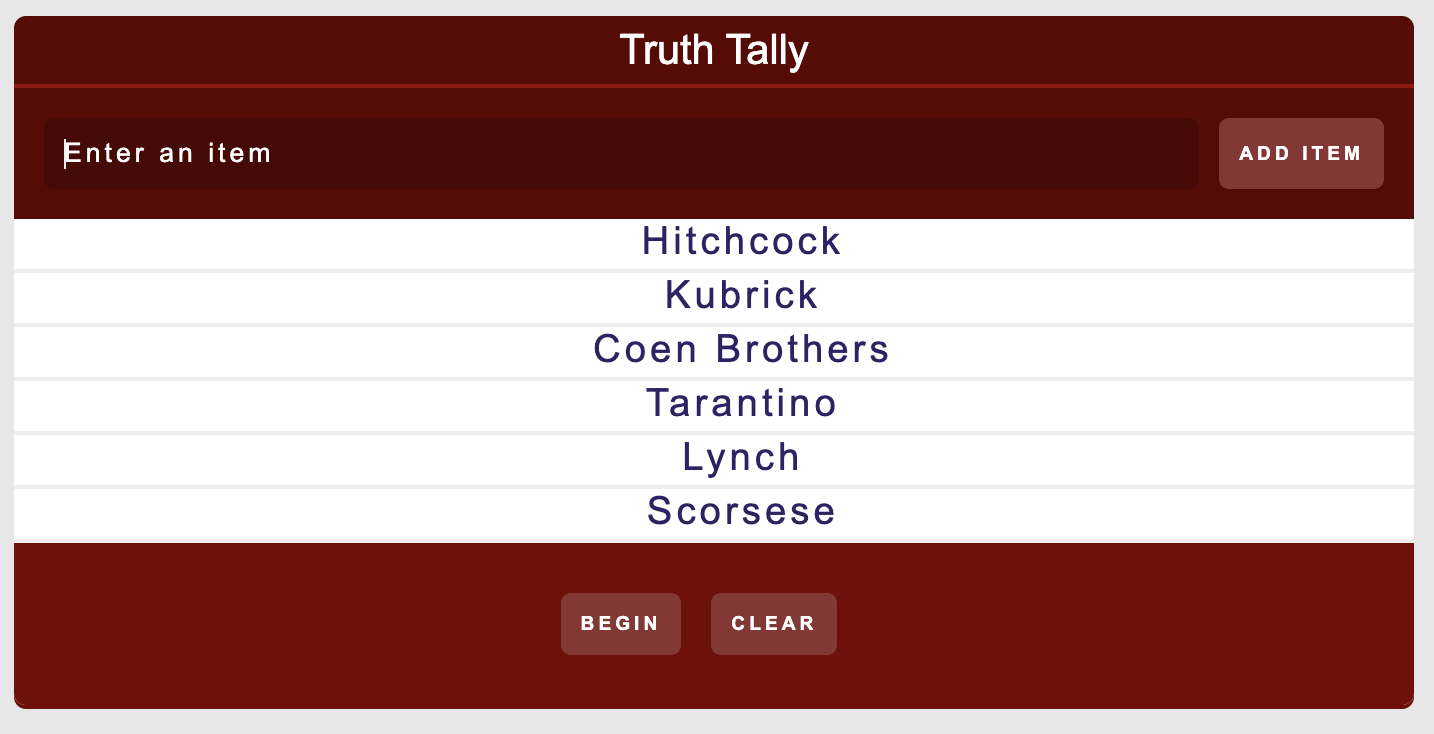
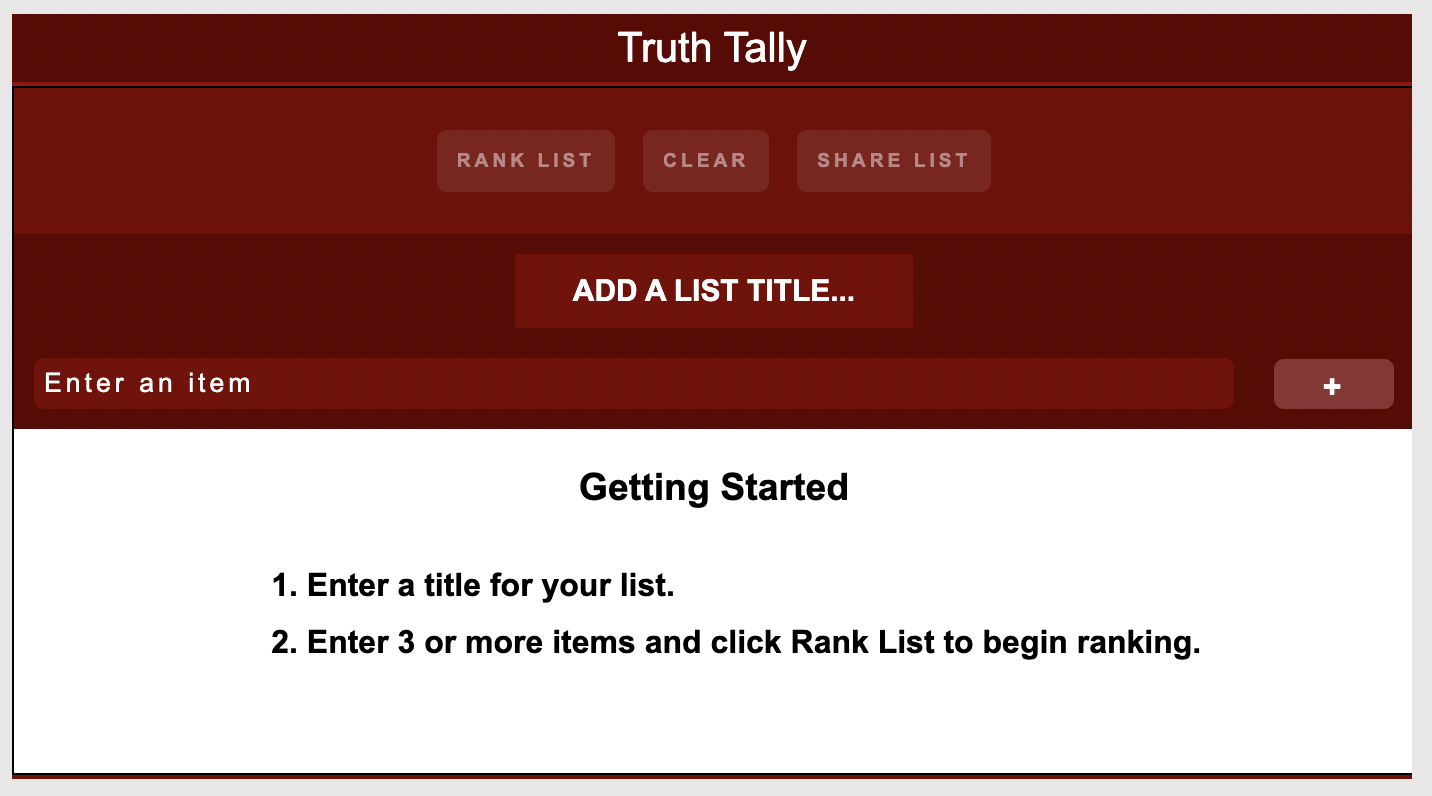
Update Readme to reflect most recent changes

diff --git a/README.md b/README.md
@@ -1,40 +1,103 @@
 # Truth Tally
 
+### Link to web app: [https://truthtallyranker.com](https://truthtallyranker.com)
 
-Link to web app: [https://truthtally.danielr.io/](https://truthtally.danielr.io/)
+<br />
+<br />
+
+---
 
 ## Description
 
-This React based app will allow you to create a list, and sort based on your choice from randomized unique pairings.
+This Next.js, React, and Node.js based app will allow you to create a list, and sort based on your choice from randomized unique pairings.
+
+<br />
 
 ## Usage
 
-1. Enter a list of items to compare (i.e., Beatles, Led Zeppelin, Pink Floyd, Black Sabbath)
-2. Click/tap on Begin
-3. Select a favored item from one of the pairs of items displayed.
+1. Enter a list of items to rank (i.e., Beatles, Led Zeppelin, Pink Floyd, Black Sabbath)
+2. Click/tap on Rank List
+3. During each round, click/tap on the favored item from between the two items
 4. Results are then displayed.
 
-`- The Begin button only appears once there are 3 items in the list`
+<br />
 
-`- Each selection increases the score of the selected item`
+- `The Rank List button only appears once there are 3 items in the list`
 
-`- Rate Again will clear scores and begin the ratng process again`
+- `Each selection increases the score of the selected item`
 
-`- Start Over will clear the list, requiring entering items again`
+- `Rank Again will clear scores and begin the ratng process again`
 
+<br />
+
+## List Sharing
+
+You can share your ranked and unranked lists. Sharing a list will save your list to the database, and the list will be stored on Truth Tally's server.
+
+When sharing, you have the option to enter:
+
+- `Name: Enter your name or a nickname to display as the person who created or ranked the list when sharing unranked or ranked lists with others.`
+
+- `Tags: Add up to 6 tags, using single words without spaces and up to 20 characters each, to improve searchability and aid others in discovering your list.`
+
+- `Unlisted: Your list won't appear on the public shared lists page*, but can still be shared with others using a unique link.`
+
+\*Feature currently in development
+
+<br />
+
+---
 
 ## Screenshots
 
+<div style="text-align: center;">
+
 ![Screenshot](./screenshots/screenshot01.png)
+New List
+
+<br />
 
 ![Screenshot](./screenshots/screenshot02.png)
+Enter a title and items to rank
+
+<br />
 
 ![Screenshot](./screenshots/screenshot03.png)
+Share List modal
 
-### `Development`
+<br />
+
+![Screenshot](./screenshots/screenshot04.png)
+Ranking items
+
+<br />
+
+![Screenshot](./screenshots/screenshot05.png)
+Ranked list
+
+<br />
+
+</div>
+
+---
+
+<br />
+
+## `Development`
 
 To develop further on this app, you will want to fork the repo, then clone your fork into your local git repository.
 
-In terminal, CD into your cloned repo and enter `npm install`, then run the app by entering `npm start`
+1. In terminal, CD into your cloned forked repo and enter `npm install`
+2. This app uses a MongoDB Atlas database. You can sign up for a free MongoDB Atlas account, and follow the getting started tutorial [here](https://www.mongodb.com/basics/mongodb-atlas-tutorial).
+3. You will need to create an `.env.local` file in your project's root folder and add the following environmental variables:
 
+```
+MONGODB_URI="mongo_db_connection_string"
+MONGODB_DATABASE="database_name"
+MONGODB_COLLECTION="collection_name"
+API_URL=http://127.0.0.1:3000
+```
 
+4. Run the app in development mode by running the command `npm run dev`
+
+You can see how to get your MonoDB Connection String [here](https://www.mongodb.com/docs/manual/reference/connection-string/)
